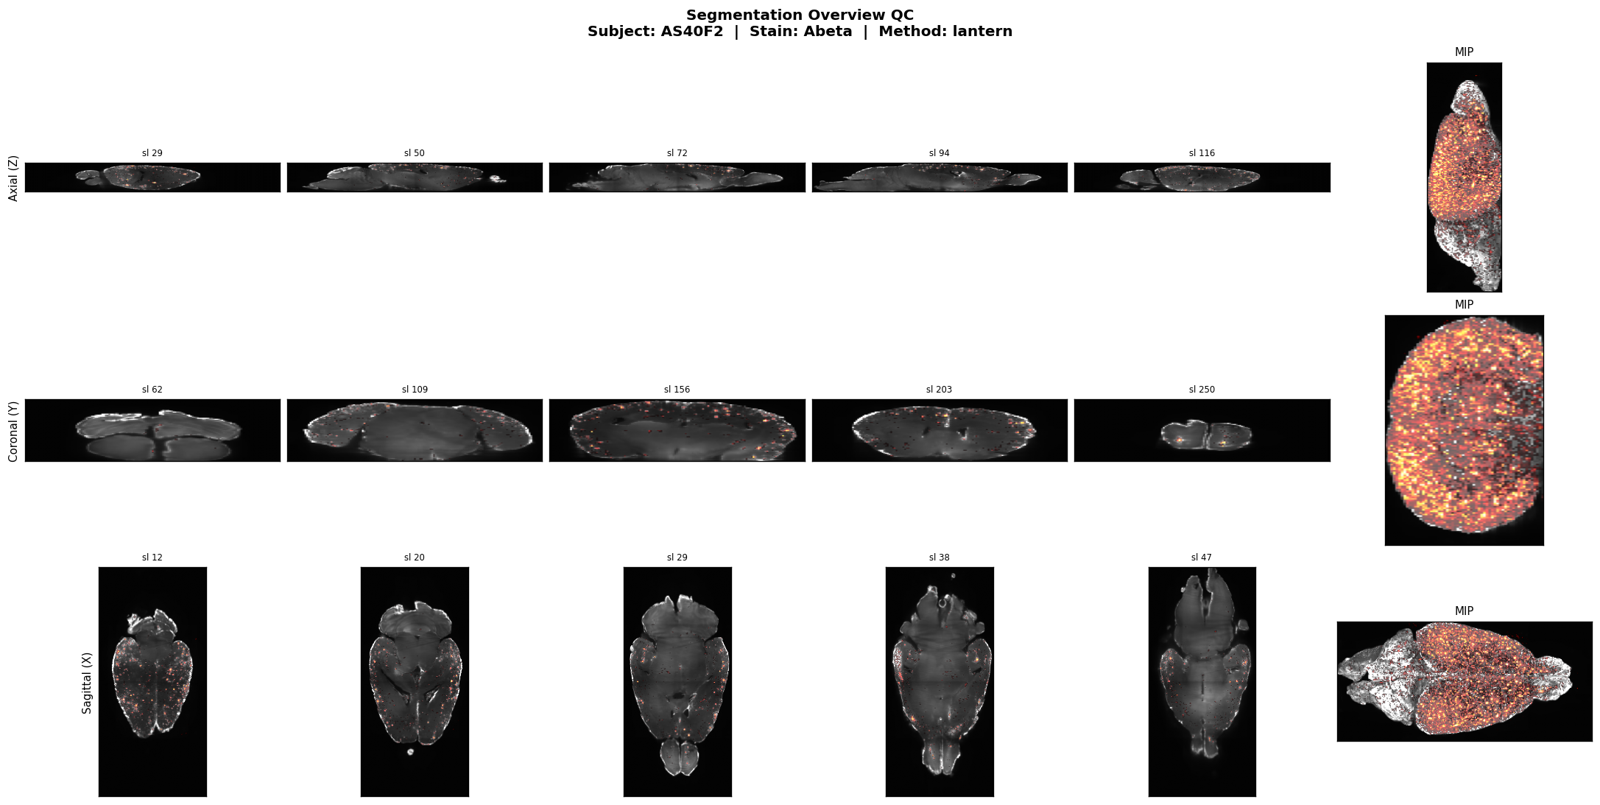
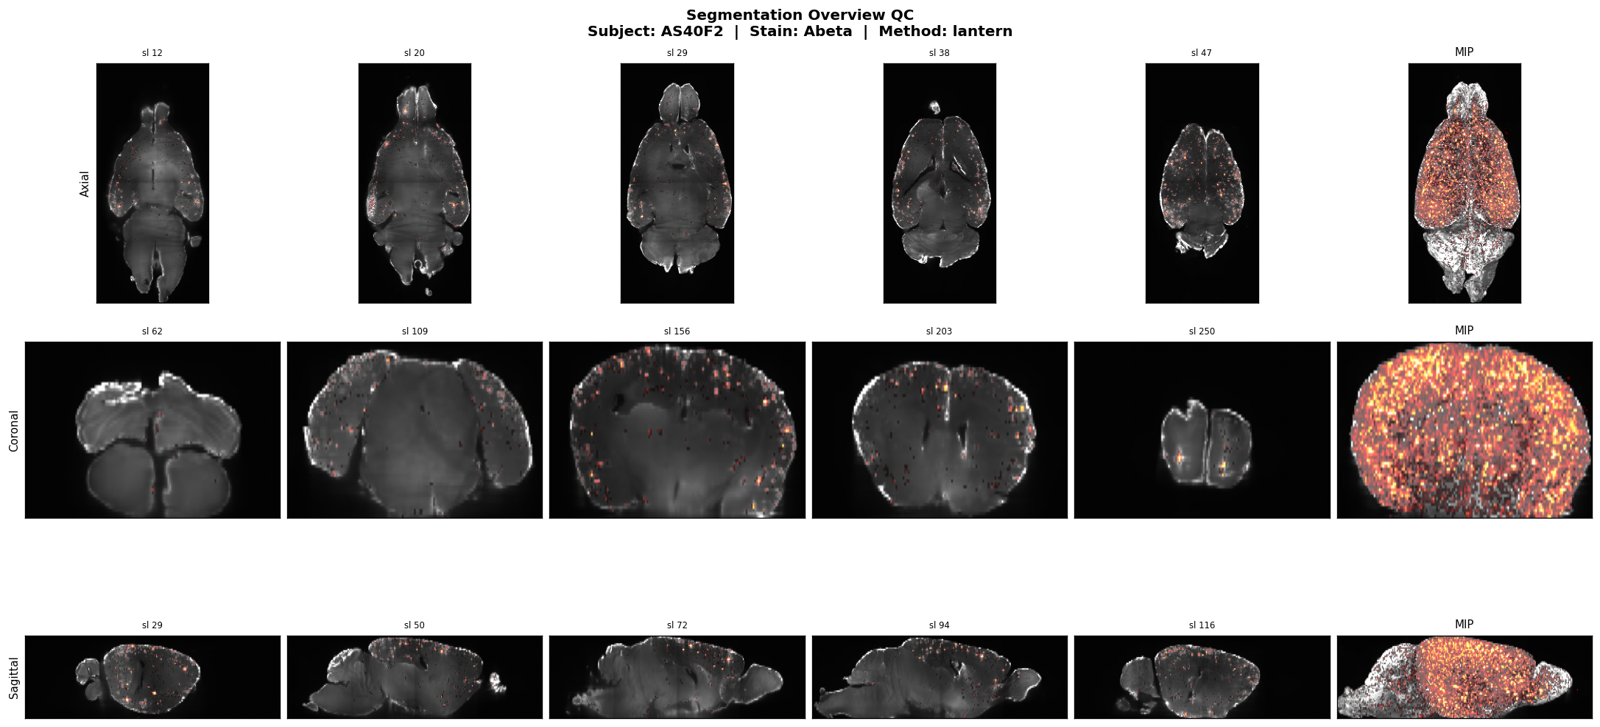
QC overview orientation, vessel overlay, temporary SDT, N4 level, stain synonyms
- qc_segmentation_overview: volumes are reoriented to RAS with their
  affine before slicing. They were sliced in storage order (ZYX for
  OME-Zarr and Imaris), so the "Axial (Z)" row stepped through x, and
  slices were not rotated like the MIP column. Rows are now true
  axial/coronal/sagittal views at physical aspect. Unit test with an LPI
  volume.
- qc_vessels_overview: the overlay is scaled to this brain's vessel
  coverage (75th-99.5th percentile) and the projection is a mean, so the
  denser vessels and coverage artefacts show; the fixed 0-100 scale
  painted the whole brain.
- signed_distance_transform: output is temp() unless keep_sdt (new config
  key). It is full-resolution float32 (101 GB of a 110 GB output for a
  339 GB brain) and only sampled at object centroids and vessel skeletons.
- N4: correction_level is lowered, with a note, when an image would have
  fewer than 16 voxels along an axis at that level (N4 failed on the test
  dataset at the default level 6).
- --stain-synonyms ALIAS=CANONICAL and the stain_synonyms config mapping:
  channels named ALIAS are processed and named as CANONICAL (sidecar
  SampleStaining, OME-Zarr channel labels and --sample_staining), e.g.
  PI=YoPro to use the YoPro99 cohort template with PI-stained brains.
  CI dry run added.
- Docs: quick start without the N4/vessel workarounds (tested end to end,
  ~35 min on 4 cores); vesselFM runs on CPU (already true with #255's
[…]

diff --git a/spimquant/workflow/scripts/qc_segmentation_overview.py b/spimquant/workflow/scripts/qc_segmentation_overview.py
@@ -5,11 +5,12 @@ orientations (axial, coronal, sagittal), each with the binary segmentation or
 vessel mask overlaid on the SPIM background image, plus a max-intensity
 projection (MIP) column for each orientation.
 
-Data are loaded via ZarrNii so that the correct physical resolution and
-aspect ratio are applied automatically.  The SPIM is loaded with
-``downsample_near_isotropic=True`` to obtain near-isotropic voxels.
-Voxel spacings are read with ``get_zooms()`` and used to compute the correct
-``imshow`` aspect ratio for each panel.
+Data are loaded via ZarrNii (the SPIM with ``downsample_near_isotropic=True``),
+converted to NIfTI and reoriented to RAS with the image affine, so that the
+rows show true axial, coronal and sagittal slices whatever the storage order
+(ZYX for OME-Zarr and Imaris) and orientation of the scan.  Every panel is
+displayed with ``np.rot90`` (superior or anterior up) and the aspect ratio of
+the voxel spacings.
 
 This is a Snakemake script that expects the ``snakemake`` object to be
 available, which is automatically provided when executed as part of a
@@ -20,6 +21,7 @@ import matplotlib
 
 matplotlib.use("agg")
 import matplotlib.pyplot as plt
+import nibabel as nib
 import numpy as np
 from scipy.ndimage import zoom
 from zarrnii import ZarrNii
@@ -42,14 +44,14 @@ def _sample_slices(size, n=5):
 
 
 def _slice_aspect(zooms, step_axis):
-    """Compute imshow aspect ratio for a slice through *step_axis*.
+    """imshow aspect ratio for a slice through *step_axis* of a RAS volume.
 
-    ZarrNii data is indexed (x, y, z) and ``np.rot90`` is applied before
-    display, so the displayed image rows and columns are:
+    The volume is indexed (x, y, z) and every panel is ``np.rot90`` of the
+    slice, so the displayed rows and columns are:
 
-    - step_axis=2 (Z-slice): rot90 of data[:, :, z] → rows=y, cols=x  → dy/dx
-    - step_axis=1 (Y-slice): rot90 of data[:, y, :] → rows=z, cols=x  → dz/dx
-    - step_axis=0 (X-slice): rot90 of data[x, :, :] → rows=z, cols=y  → dz/dy
+    - step_axis=2 (axial): rot90 of data[:, :, z] -> rows=y, cols=x -> dy/dx
+    - step_axis=1 (coronal): rot90 of data[:, y, :] -> rows=z, cols=x -> dz/dx
+    - step_axis=0 (sagittal): rot90 of data[x, :, :] -> rows=z, cols=y -> dz/dy
     """
     dx, dy, dz = float(zooms[0]), float(zooms[1]), float(zooms[2])
     if step_axis == 2:
@@ -57,6 +59,17 @@ def _slice_aspect(zooms, step_axis):
     if step_axis == 1:
         return dz / dx
     return dz / dy  # step_axis == 0
+
+
+def _ras_volume(img):
+    """(x, y, z) array in RAS orientation and its voxel spacings (mm)."""
+    nii = nib.as_closest_canonical(img.to_nifti())
+    data = np.asanyarray(nii.dataobj)
+    while data.ndim > 3 and data.shape[-1] == 1:
+        data = data[..., 0]
+    if data.ndim != 3:
+        raise ValueError(f"expected a single-channel volume, got shape {data.shape}")
+    return data, nii.header.get_zooms()[:3]
 
 
 def main():
@@ -77,22 +90,9 @@ def main():
         downsample_near_isotropic=True,
     )
 
-    # Voxel dimensions (mm) for physical aspect-ratio correction
-    zooms = spim_img.get_zooms()
-
-    # Drop leading singleton axes (c, or t,c for stores with a time axis)
-    def _volume(img):
-        data = img.data
-        while data.ndim > 3 and data.shape[0] == 1:
-            data = data[0]
-        if data.ndim != 3:
-            raise ValueError(
-                f"expected a single-channel volume, got shape {img.data.shape}"
-            )
-        return data.compute()
-
-    spim_data = _volume(spim_img)  # (X, Y, Z)
-    mask_data = _volume(mask_img)  # (X, Y, Z), values 0–100
+    # RAS (x, y, z) arrays, whatever the storage order and scan orientation
+    spim_data, zooms = _ras_volume(spim_img)
+    mask_data, _ = _ras_volume(mask_img)  # values 0-100
 
     # Bring mask to the same grid as SPIM if needed
     if mask_data.shape != spim_data.shape:
@@ -100,11 +100,20 @@ def main():
         mask_data = zoom(mask_data, factors, order=1)
 
     spim_norm = _percentile_norm(spim_data)
-    # Mask values are 0–100 (field-fraction percent); normalise to 0–1 for display
-    mask_norm = np.clip(mask_data / 100.0, 0.0, 1.0)
+    # Mask values are 0-100 (percent of each voxel covered at full resolution)
+    relative = getattr(snakemake.params, "overlay_scale", "fixed") == "relative"
+    if relative:
+        # Dense structures such as vessels cover a few percent of nearly every
+        # voxel at this level, so a fixed 0-100 scale paints the whole brain.
+        # Show where the coverage is high relative to this brain instead.
+        tissue = mask_data[mask_data > 0]
+        lo, hi = np.percentile(tissue, [75, 99.5]) if tissue.size else (0, 100)
+        mask_norm = np.clip((mask_data - lo) / max(hi - lo, 1e-6), 0.0, 1.0)
+    else:
+        mask_norm = np.clip(mask_data / 100.0, 0.0, 1.0)
 
     n_slices = 5
-    orient_labels = ["Axial (Z)", "Coronal (Y)", "Sagittal (X)"]
+    orient_labels = ["Axial", "Coronal", "Sagittal"]
     # axis along which we step through slices: 2 = Z, 1 = Y, 0 = X
     step_axes = [2, 1, 0]
 
@@ -123,8 +132,8 @@ def main():
         for col, sl in enumerate(slice_indices):
             idx = [slice(None)] * 3
             idx[ax_idx] = int(sl)
-            spim_sl = spim_norm[tuple(idx)]
-            mask_sl = mask_norm[tuple(idx)]
+            spim_sl = np.rot90(spim_norm[tuple(idx)])
+            mask_sl = np.rot90(mask_norm[tuple(idx)])
 
             ax = axes[row, col]
             ax.imshow(spim_sl, cmap="gray", vmin=0, vmax=1, aspect=aspect)
@@ -139,13 +148,23 @@ def main():
         # MIP column (last column)
         ax = axes[row, n_slices]
         mip_spim = np.rot90(np.max(spim_norm, axis=ax_idx))
-        mip_mask = np.rot90(np.max(mask_norm, axis=ax_idx))
+        if relative:
+            # a max projection of a relative scale saturates: use the mean
+            proj = np.mean(mask_data, axis=ax_idx)
+            plo, phi = (
+                np.percentile(proj[proj > 0], [75, 99.5])
+                if (proj > 0).any()
+                else (0, 1)
+            )
+            mip_mask = np.rot90(np.clip((proj - plo) / max(phi - plo, 1e-6), 0.0, 1.0))
+        else:
+            mip_mask = np.rot90(np.max(mask_norm, axis=ax_idx))
         ax.imshow(mip_spim, cmap="gray", vmin=0, vmax=1, aspect=aspect)
         mip_masked = np.ma.masked_where(mip_mask < 0.01, mip_mask)
         ax.imshow(mip_masked, cmap="hot", alpha=0.6, vmin=0, vmax=1, aspect=aspect)
         ax.set_xticks([])
         ax.set_yticks([])
-        ax.set_title("MIP", fontsize=9)
+        ax.set_title("Mean projection" if relative else "MIP", fontsize=9)
 
     plt.savefig(snakemake.output.png, dpi=120, bbox_inches="tight")
     plt.close()

diff --git a/tests/test_qc_segmentation_overview.py b/tests/test_qc_segmentation_overview.py
@@ -1,0 +1,63 @@
+"""The segmentation overview QC reorients volumes to RAS before slicing.
+
+Imaris and OME-Zarr inputs are stored ZYX and in the scan's own orientation;
+the figure's axial/coronal/sagittal rows are only right if the volume is
+reoriented with its affine first.
+"""
+
+import importlib.util
+import sys
+from pathlib import Path
+
+import nibabel as nib
+import numpy as np
+import pytest
+
+SCRIPT = (
+    Path(__file__).resolve().parents[1]
+    / "spimquant"
+    / "workflow"
+    / "scripts"
+    / "qc_segmentation_overview.py"
+)
+
+
+@pytest.fixture(scope="module")
+def overview():
+    spec = importlib.util.spec_from_file_location("qc_segmentation_overview", SCRIPT)
+    module = importlib.util.module_from_spec(spec)
+    sys.modules["qc_segmentation_overview"] = module
+    spec.loader.exec_module(module)
+    return module
+
+
+def _marked_volume():
+    """10 x 20 x 30 volume (x, y, z) with a bright voxel at the R, A, S corner."""
+    data = np.zeros((10, 20, 30), dtype=np.float32)
+    data[-1, -1, -1] = 1.0
+    return data
+
+
+def test_ras_volume_reorients_lpi(overview, tmp_path):
+    from zarrnii import ZarrNii
+
+    # Store the volume LPI: flip x and y, so the marked corner sits at index 0
+    data = _marked_volume()[::-1, ::-1, :].copy()
+    affine = np.diag([-0.1, -0.2, 0.3, 1.0])  # x->L, y->P, z->S, mm
+    path = tmp_path / "lpi.nii.gz"
+    nib.save(nib.Nifti1Image(data, affine), path)
+
+    vol, zooms = overview._ras_volume(ZarrNii.from_nifti(str(path)))
+
+    assert vol.shape == (10, 20, 30)
+    assert np.allclose(zooms, [0.1, 0.2, 0.3])
+    # back in RAS, the marked voxel is at the far R, A, S corner again
+    assert np.unravel_index(np.argmax(vol), vol.shape) == (9, 19, 29)
+
+
+@pytest.mark.parametrize(
+    "step_axis, expected",
+    [(2, 0.2 / 0.1), (1, 0.3 / 0.1), (0, 0.3 / 0.2)],
+)
+def test_slice_aspect(overview, step_axis, expected):
+    assert overview._slice_aspect((0.1, 0.2, 0.3), step_axis) == pytest.approx(expected)

diff --git a/docs/getting_started/quickstart.md b/docs/getting_started/quickstart.md
@@ -3,7 +3,7 @@
 This runs the small test dataset that comes with the repository: one mouse
 brain, downsampled to about 100 µm, with Abeta, CD31 and YoPro channels. It
 is too coarse for meaningful numbers, but it runs every step in about
-30 minutes on 4 cores, and writes the same kinds of outputs as a real run.
+35 minutes on 4 cores, and writes the same kinds of outputs as a real run.
 [Example outputs](../examples/index.md) shows the same outputs from a
 full-resolution brain.
 
@@ -12,22 +12,24 @@ full-resolution brain.
 From the repository (see [Installation](installation.md)):
 
 ```bash
-OPTS="--registration-level 0 --segmentation-level 0 --correction-level 1 \
-  --correction-method gaussian --atlas-segs roi198 --no_vessels"
+OPTS="--registration-level 0 --segmentation-level 0 --atlas-segs roi198"
 pixi run spimquant $PWD/tests/bids_ds /tmp/spimquant_out participant -n $OPTS
 ```
 
 `-n` builds the list of jobs without running them. The test image is tiny
-(about 100 µm voxels, few pyramid levels), so these options keep every step
-at levels it has: registration and segmentation at level 0, the bias field
-at level 1 with the Gaussian method, a single atlas (`roi198`), and no
-vessels (vesselFM needs a GPU). For real data leave them out. The start of the output says which stain
-is used for registration and which method segments each stain:
+(about 100 µm voxels, few pyramid levels), so these options run registration
+and segmentation at level 0 and use a single atlas (`roi198`); for real data
+leave them out. The start of the output says how the run is set up:
 
 ```
+Note: using --correction-level 2 instead of 6: at that level an image has fewer than 16 voxels along an axis, too few for N4
 Segmentation methods (first of each is primary):
   Abeta: seg_method gmm+n3k1 (default, no-GPU fallback), object_method components (default)
 ```
+
+Without a GPU, Abeta is segmented with `gmm+n3k1` instead of LANTERN, and
+vesselFM segments CD31 on the CPU (seconds on this image; a whole brain at
+full resolution takes 2.9 h on one A100 GPU, and far longer on a CPU).
 
 ## 2. Run
 
@@ -44,6 +46,7 @@ pixi run spimquant $PWD/tests/bids_ds /tmp/spimquant_out participant --cores 4 $
 │   ├── xfm/         # warps, and the registration QC report (*_regqc.html)
 │   ├── parc/        # atlas labels in the subject
 │   ├── seg/         # masks (.ozx), field fraction and count maps
+│   ├── vessels/     # CD31 vessel mask and field fraction
 │   ├── tabular/     # per-region and per-object tables
 │   ├── featuremap/  # per-region values painted into the template
 │   └── qc/          # QC figures

diff --git a/docs/getting_started/installation.md b/docs/getting_started/installation.md
@@ -43,9 +43,10 @@ conda, mamba and micromamba work with the same channels.
 ## Disk and memory
 
 For the example brain (339 GB of Imaris at 1.625 × 1.625 × 2.75 µm, Abeta
-with LANTERN and CD31 with vesselFM) the output directory takes 110 GB. Most
-of it (101 GB) is the full-resolution distance map to the vessels
-(`vessels/*_dist.ozx`); without vessels (`--no_vessels`) it is under 10 GB.
+with LANTERN and CD31 with vesselFM) the output directory takes about 9 GB,
+most of it full-resolution masks. The full-resolution distance map to the
+vessels (101 GB here) is deleted once the object distances are computed;
+set `keep_sdt: true` in a `--configfile` to keep it.
 Temporary files written during the run come on top of this; put them on fast
 local disk with `--work_dir`. Memory per job is set by each rule from the
 image size; [Running SPIMquant](../usage/running.md#resources) lists measured

diff --git a/docs/getting_started/input_data.md b/docs/getting_started/input_data.md
@@ -49,6 +49,12 @@ A stain named in `--seg_method STAIN=...` is segmented even if it is not in
 `--stains_for_seg`. Use `--ignore-stains` to drop channels that only some
 brains have, so that the cohort is uniform.
 
+If the same dye is labelled differently in different datasets, map the
+names with `--stain-synonyms ALIAS=CANONICAL` (or the `stain_synonyms` config
+mapping). Channels labelled ALIAS are then processed, and named in the outputs,
+as CANONICAL. For example, to register PI-stained brains to the YoPro cohort
+template: `--stain-synonyms PI=YoPro --via-template YoPro99`.
+
 The orientation of the image axes comes from `--orientation`, the
 `OrientationStringXYZ` key of the sidecar, or the OME-Zarr metadata. It is
 written in XYZ order with the letter each axis increases towards: Blaze data

diff --git a/docs/faq.md b/docs/faq.md
@@ -2,10 +2,11 @@
 
 ### Do I need a GPU?
 
-No. Without one, SPIMquant uses CPU methods everywhere: Abeta is segmented
-with `gmm+n3k1` instead of LANTERN, and a note is printed. A GPU (and the
-`gpu` pixi environment) is needed for LANTERN, vesselFM vessel segmentation,
-FireANTs registration and building cohort templates. See
+No. Without one, Abeta is segmented with `gmm+n3k1` instead of LANTERN (a
+note is printed), and vesselFM runs on the CPU, which is fine for small
+images but slow for a whole brain at full resolution (2.9 h on one A100 for a
+339 GB brain). Use the `gpu` pixi environment on a GPU node for LANTERN,
+vesselFM, FireANTs registration and building cohort templates. See
 [Running SPIMquant](usage/running.md#gpu-steps).
 
 ### Which level should I segment at?

diff --git a/docs/usage/running.md b/docs/usage/running.md
@@ -67,7 +67,9 @@ pixi run -e gpu spimquant bids/ out/ participant --executor slurm --jobs 100 \
 The login node only schedules; the GPU jobs run on GPU nodes with their real
 driver. In the `default` environment, `--gpu auto` replaces default GPU
 methods with CPU ones (Abeta: `gmm+n3k1`) and prints a note; a GPU method you
-ask for explicitly is an error.
+ask for explicitly is an error. vesselFM has no CPU replacement and runs on
+the CPU instead, which is slow at full resolution; skip vessels with
+`--no_vessels` if there is no GPU.
 
 ## Inside a job
 
